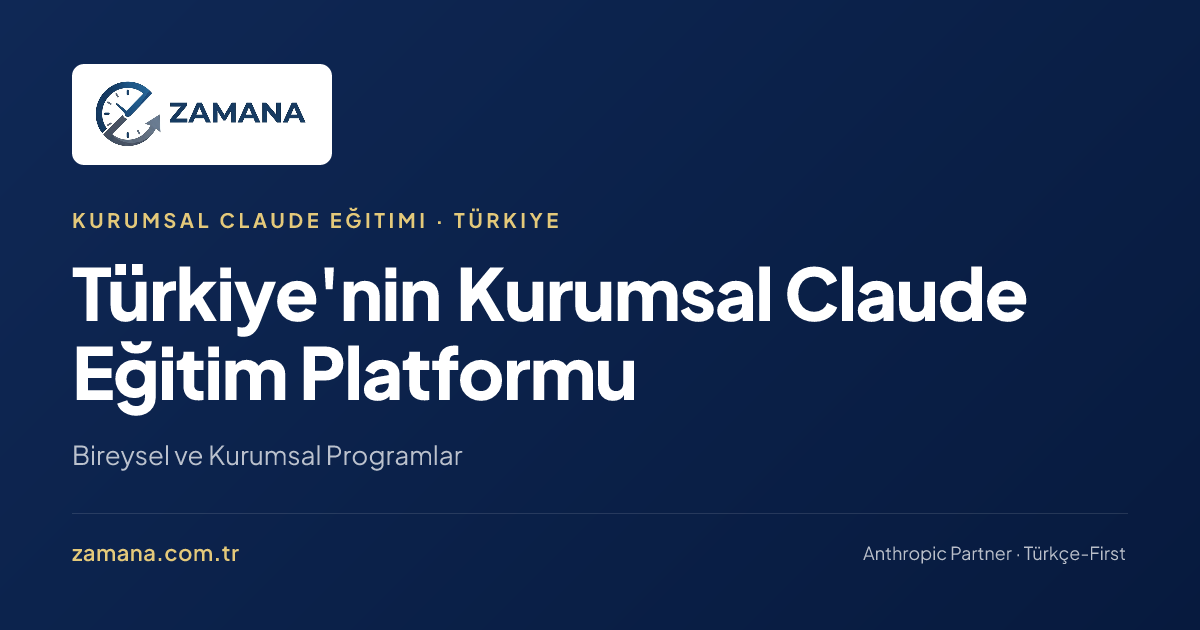
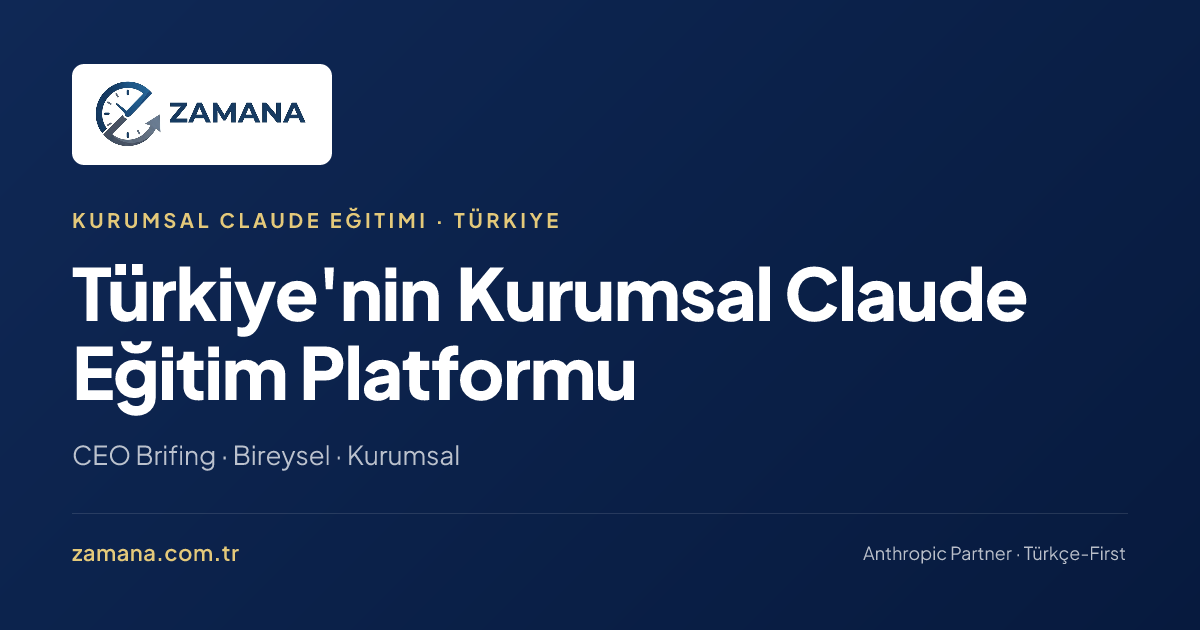
SEO: Sitemap base routes'a trailing slash ekle
10 ana site URL'i (/sss, /programlar/*, /hakkinda, vb.) sitemap'te trailing slash olmadan
listeleniyordu ama canlıda 308 ile trailing slash'lı canonical'a redirect ediliyordu.
Sitemap artık canonical URL'lerle birebir aynı: /sss/, /programlar/, /programlar/bireysel/ vb.
Wiki URL'leri zaten doğruydu. Toplam 100 URL korundu.

Ek: prebuild OG hook'u 3 mevcut görseli tazeledi + ceo-brifing için yeni OG üretti.

Changed region(s): [[0.0617, 0.6937, 0.37, 0.754]]

diff --git a/src/pages/sitemap.xml.ts b/src/pages/sitemap.xml.ts
@@ -5,16 +5,16 @@ const SITE = 'https://zamana.com.tr';
 
 const baseRoutes = [
   { path: '/',                              priority: '1.0', changefreq: 'monthly' },
-  { path: '/programlar',                    priority: '0.9', changefreq: 'monthly' },
-  { path: '/programlar/bireysel',           priority: '0.9', changefreq: 'monthly' },
-  { path: '/programlar/kurumsal',           priority: '0.9', changefreq: 'monthly' },
-  { path: '/programlar/ceo-brifing',        priority: '0.9', changefreq: 'monthly' },
-  { path: '/programlar/karsilastirma',      priority: '0.8', changefreq: 'monthly' },
-  { path: '/sss',                           priority: '0.8', changefreq: 'monthly' },
-  { path: '/hakkinda',                      priority: '0.7', changefreq: 'yearly'  },
-  { path: '/iletisim',                      priority: '0.8', changefreq: 'yearly'  },
-  { path: '/gizlilik',                      priority: '0.3', changefreq: 'yearly'  },
-  { path: '/cerezler',                      priority: '0.3', changefreq: 'yearly'  },
+  { path: '/programlar/',                   priority: '0.9', changefreq: 'monthly' },
+  { path: '/programlar/bireysel/',          priority: '0.9', changefreq: 'monthly' },
+  { path: '/programlar/kurumsal/',          priority: '0.9', changefreq: 'monthly' },
+  { path: '/programlar/ceo-brifing/',       priority: '0.9', changefreq: 'monthly' },
+  { path: '/programlar/karsilastirma/',     priority: '0.8', changefreq: 'monthly' },
+  { path: '/sss/',                          priority: '0.8', changefreq: 'monthly' },
+  { path: '/hakkinda/',                     priority: '0.7', changefreq: 'yearly'  },
+  { path: '/iletisim/',                     priority: '0.8', changefreq: 'yearly'  },
+  { path: '/gizlilik/',                     priority: '0.3', changefreq: 'yearly'  },
+  { path: '/cerezler/',                     priority: '0.3', changefreq: 'yearly'  },
 ];
 
 // Wiki routes — derived from the canonical nav config (single source of truth).
